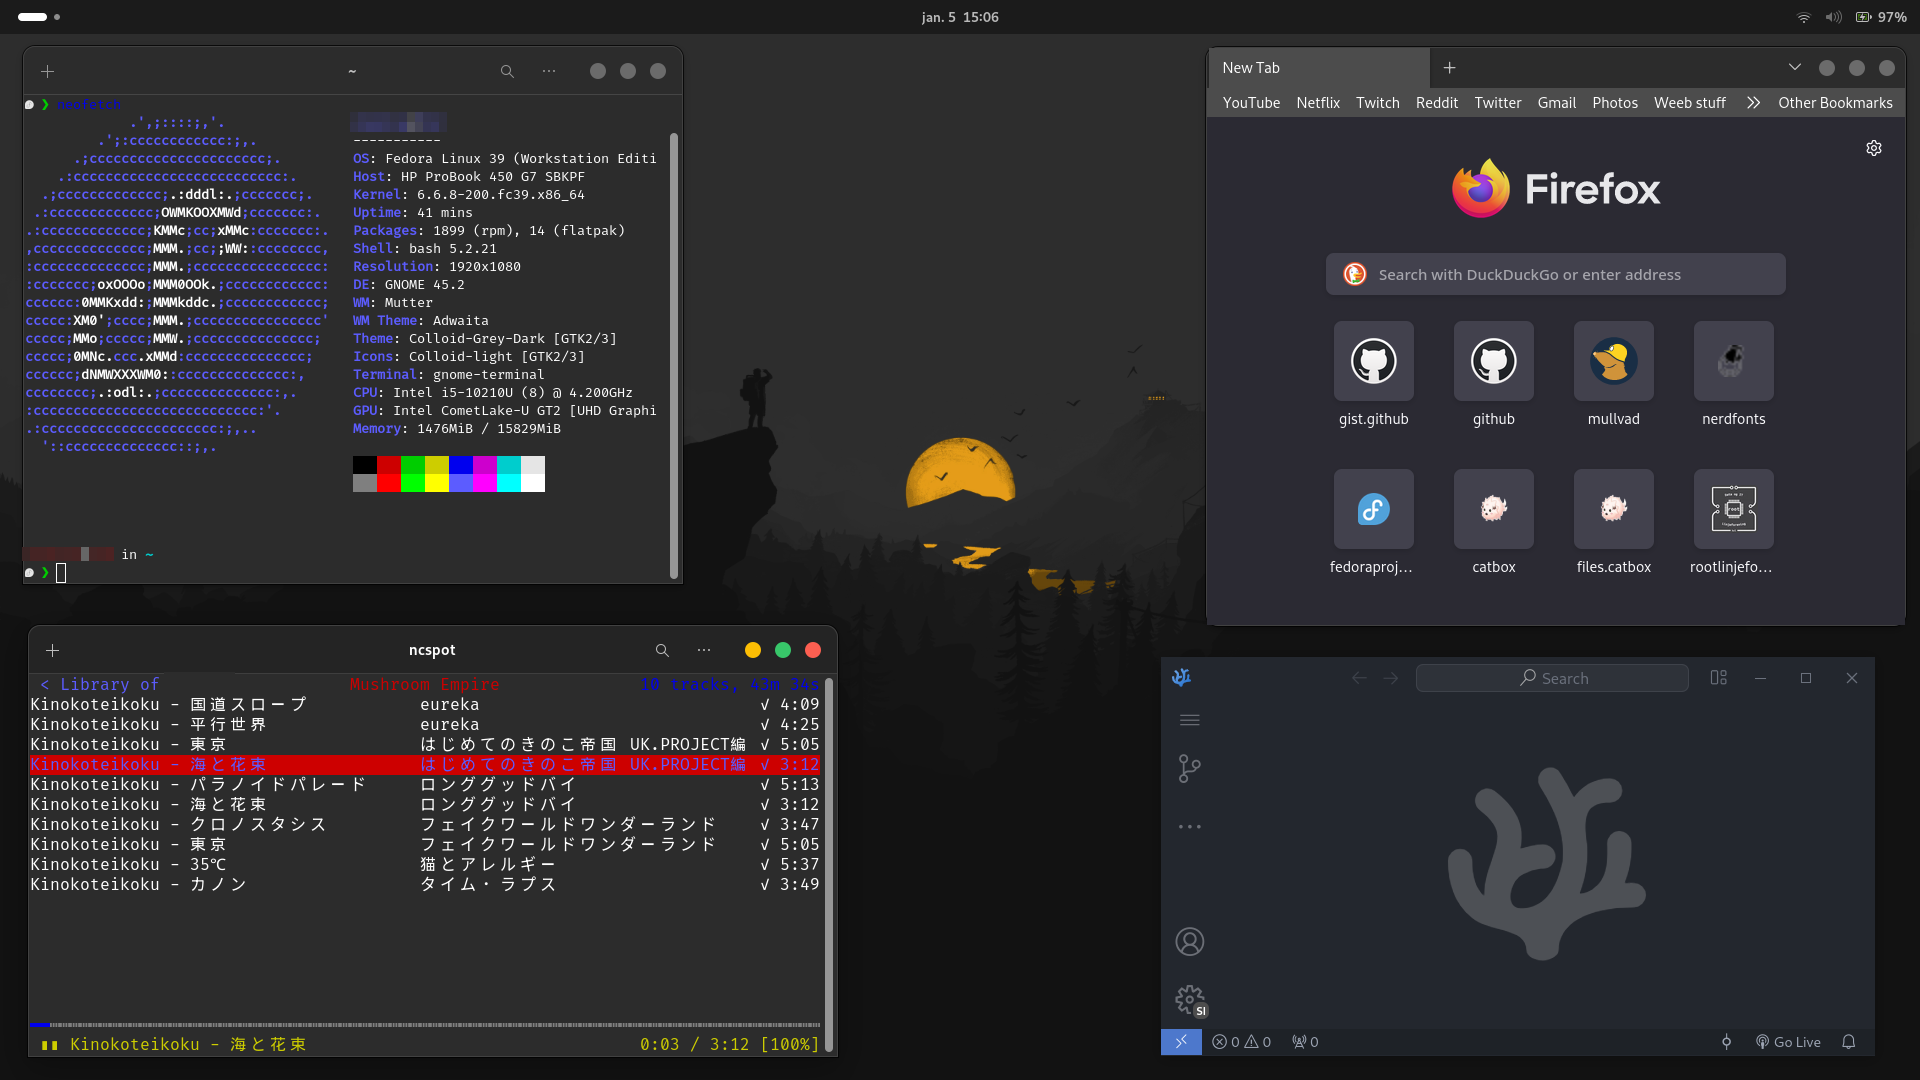
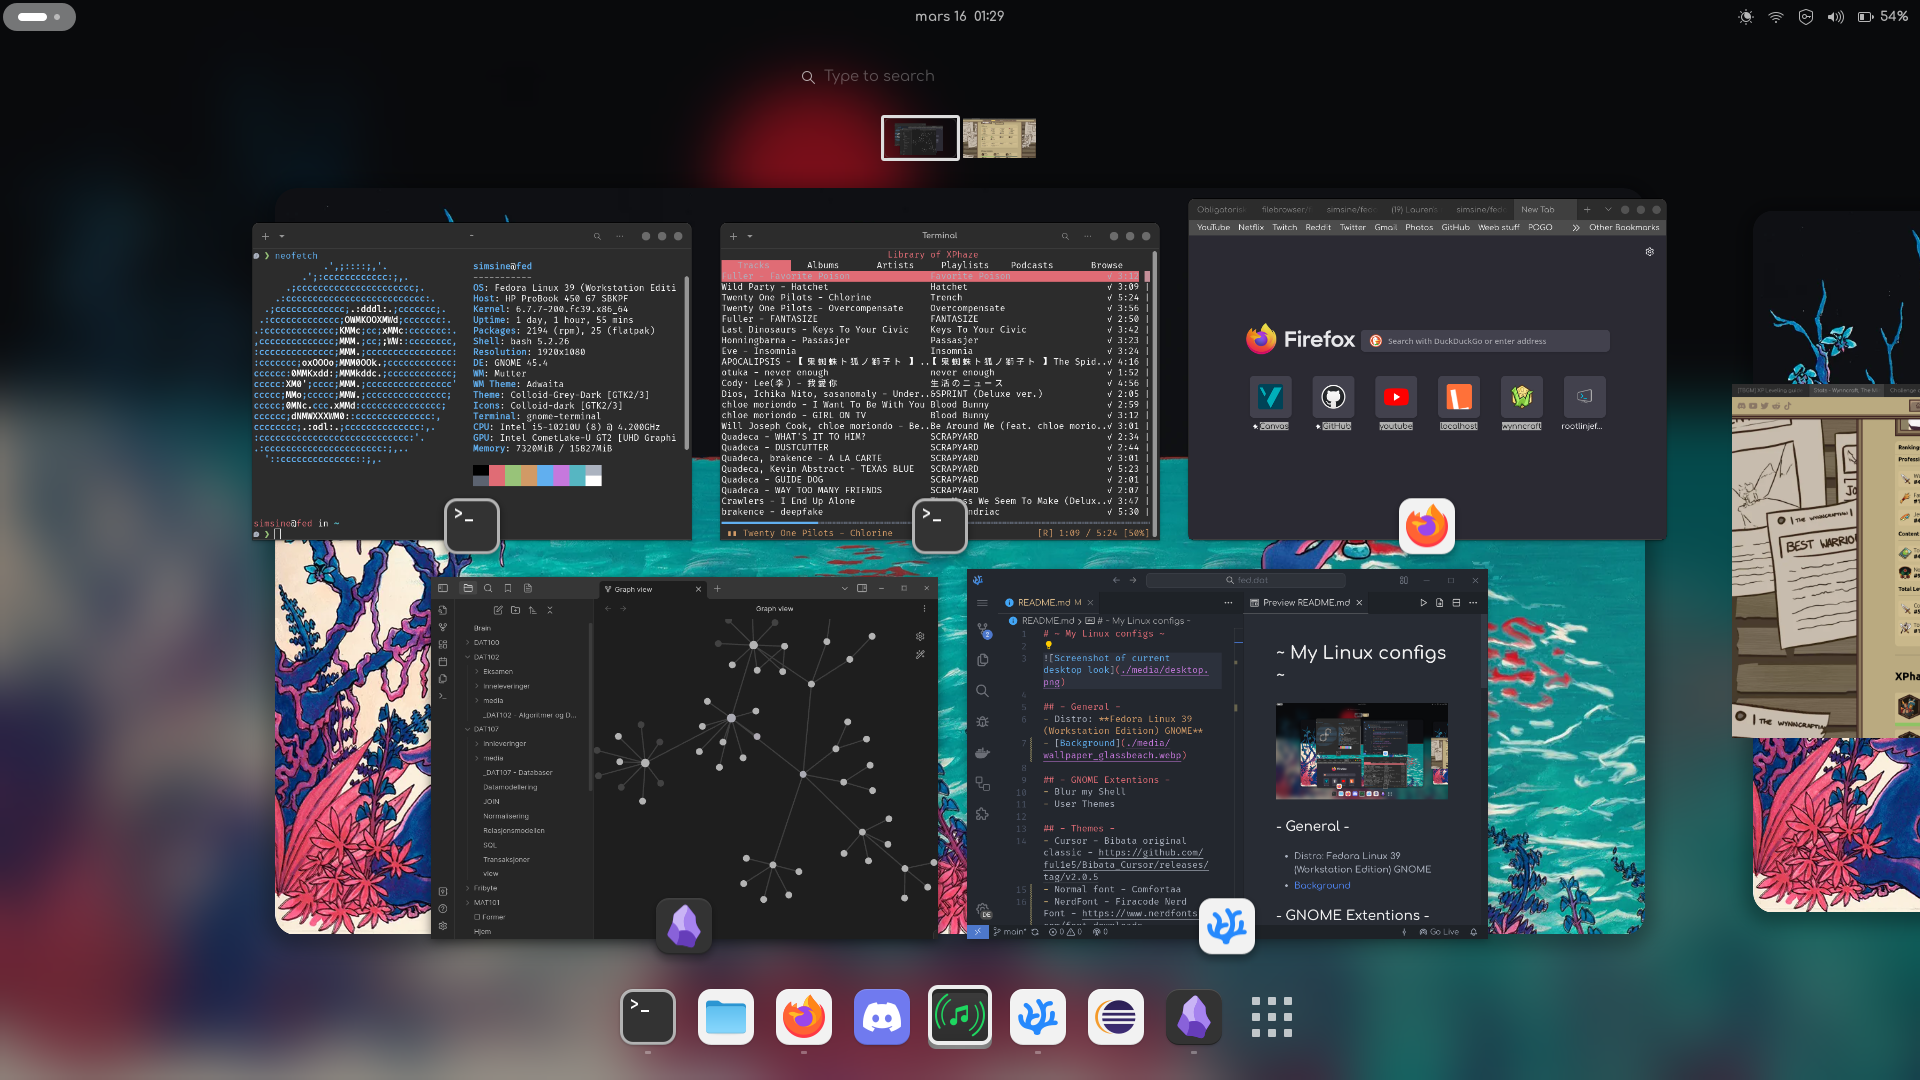
latest

diff --git a/README.md b/README.md
@@ -4,15 +4,17 @@
 
 ## - General -
 - Distro: **Fedora Linux 39 (Workstation Edition) GNOME**
-- [Background](./media/wallpaper_firewatch.png)
+- [Background](./media/wallpaper_glassbeach.webp)
 
 ## - GNOME Extentions -
 - Blur my Shell
 - User Themes
+- Hide Cursor
+- Launch new instance
 
 ## - Themes -
-- Cursor - Bibata original classic - https://github.com/ful1e5/Bibata_Cursor/releases/tag/v2.0.5
-- Font - Firacode Nerd Font - https://www.nerdfonts.com/font-downloads
+- Normal font - Comfortaa
+- NerdFont - Firacode Nerd Font - https://www.nerdfonts.com/font-downloads
 - Firefox theme - penguinFox - https://github.com/p3nguin-kun/penguinFox
 - GTK theme - Colloid dgtk theme - https://github.com/vinceliuice/Colloid-gtk-theme
 - Icon theme - Colloid icon theme - https://github.com/vinceliuice/Colloid-icon-theme
@@ -31,4 +33,4 @@
 - Media Downloader - yt-dlp + yt-dlp-fish-completion
 - Media encoder - ffmpeg
 - VPN client - Mullvad vpn
-
+- Minecraft - Prism Launcher
